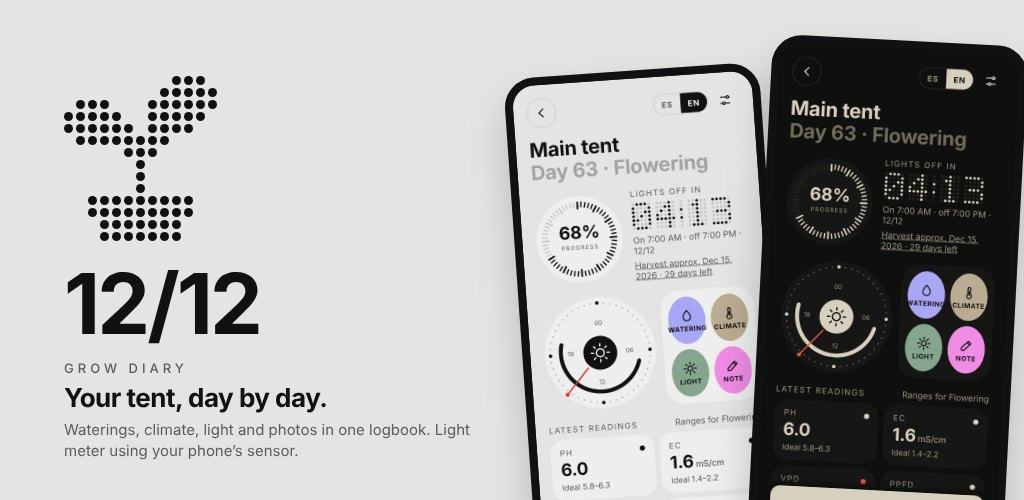
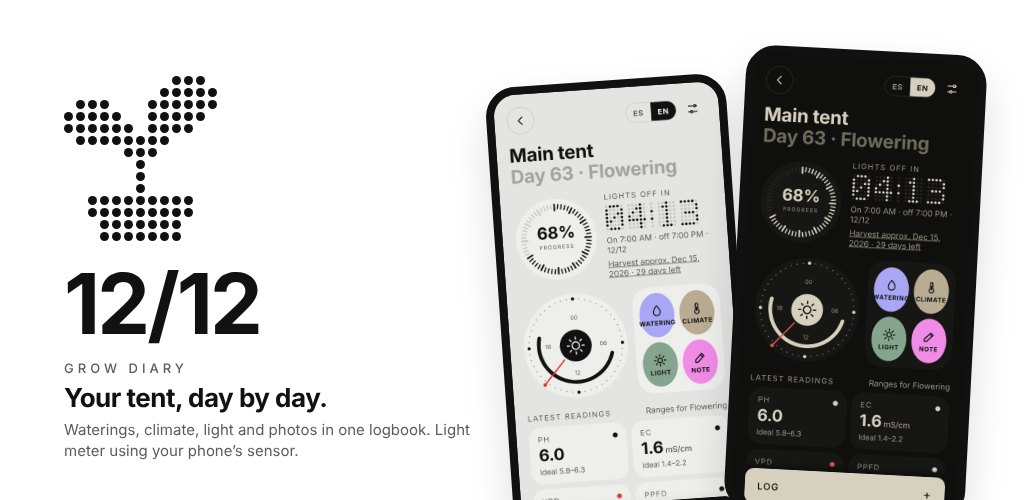
12/12: fondo blanco e imagen de tarjeta propia que no se corta en escritorio
Claude-Session: https://claude.ai/code/session_01AaQoaDKYzmFS6tCGin9G1v

diff --git a/assets/style.css b/assets/style.css
@@ -126,14 +126,14 @@ body.wd { --sea: #ECEBE7; --sea2: #DCDBD6; --fog: #2A2A28; --fog2: #5F5F5B; --cy
 .game-card.wd:hover .go { background: #DCDBD6; }
 .game-card.wd .pic { background-position: center; }
 
-/* ---------- 12/12: Diario de cultivo (gris claro, tinta negra y acento rojo, como la app) ---------- */
-body.dd { --sea: #E4E4E2; --sea2: #D9D9D6; --fog: #2A2A28; --fog2: #5C5C5A; --cyan: #E5322D; --cyan2: #111111; --rule: #CFCFCB; background: var(--sea); color: var(--fog); font-family: 'Inter', system-ui, -apple-system, sans-serif; }
+/* ---------- 12/12: Diario de cultivo (blanco, tinta negra y acento rojo, como la app) ---------- */
+body.dd { --sea: #FFFFFF; --sea2: #F2F2F0; --fog: #2A2A28; --fog2: #5C5C5A; --cyan: #E5322D; --cyan2: #111111; --rule: #CFCFCB; background: var(--sea); color: var(--fog); font-family: 'Inter', system-ui, -apple-system, sans-serif; }
 .dd h1, .dd .feat b, .dd .doc dt, .dd.game h1 { color: #111111; }
 .dd.game h1 { font-family: 'Inter', system-ui, sans-serif; font-weight: 700; letter-spacing: -3px; font-size: clamp(52px, 11vw, 84px); }
 .dd.game h1 em { color: var(--cyan); text-shadow: none; }
 .dd.game h2, .dd .tag, .dd .pill, .dd .mini, .dd .lang, .dd .shots figcaption { font-family: 'Inter', system-ui, sans-serif; font-weight: 500; }
 .dd .feat b { font-family: 'Inter', system-ui, sans-serif; font-weight: 700; letter-spacing: -0.2px; font-size: 17px; }
-.dd .feat div { background: #EEEEEC; border: 0; border-radius: 18px; padding: 18px; }
+.dd .feat div { background: #F2F2F0; border: 0; border-radius: 18px; padding: 18px; }
 .dd .hero { border-radius: 22px; background-color: var(--sea2); }
 .dd .shots img { border-radius: 18px; border-color: var(--rule); }
 .dd .pill { border-color: var(--rule); color: var(--fog2); }
@@ -149,11 +149,11 @@ body.dd { --sea: #E4E4E2; --sea2: #D9D9D6; --fog: #2A2A28; --fog2: #5C5C5A; --cy
 .dd .doc h1 { letter-spacing: -0.5px; }
 .dd .doc .mail { color: #111111; border-color: #111111; border-radius: 12px; }
 .dd footer a { color: #111111; }
-.game-card.dd { background: #E4E4E2; color: #2A2A28; border: 1px solid #D9D9D6; }
+.game-card.dd { background: #FFFFFF; color: #2A2A28; border: 1px solid #E4E4E2; }
 .game-card.dd .k { color: #5C5C5A; }
 .game-card.dd h2 { font-family: 'Inter', sans-serif; font-weight: 700; letter-spacing: -1px; color: #111111; }
 .game-card.dd h2 em { font-style: normal; color: #E5322D; }
 .game-card.dd p { color: #2A2A28; font-family: 'Inter', sans-serif; }
 .game-card.dd .go { border-color: #111111; color: #111111; font-family: 'Inter', sans-serif; font-weight: 500; border-radius: 12px; }
-.game-card.dd:hover .go { background: #D9D9D6; }
-.game-card.dd .pic { background-position: left center; }
+.game-card.dd:hover .go { background: #F2F2F0; }
+.game-card.dd .pic { background-position: center; }

diff --git a/index.html b/index.html
@@ -34,7 +34,7 @@
     <div class="txt"><span class="k">APP · DISPONIBLE EN ANDROID · IPHONE PRÓXIMAMENTE</span><h2>WIDGET <em>DESIGN</em></h2><p>Ocho estilos de widgets para tu pantalla de inicio. Cada uno es un kit de cuatro piezas que calzan entre sí: hora, clima, batería, agenda y más.</p><span class="go">VER MÁS ›</span></div>
   </a>
   <a class="game-card dd" href="doce12/">
-    <div class="pic" style="background-image:url('assets/dd-hero-es.jpg')" role="img" aria-label="12/12: Diario de cultivo"></div>
+    <div class="pic" style="background-image:url('assets/dd-card-es.jpg')" role="img" aria-label="12/12: Diario de cultivo"></div>
     <div class="txt"><span class="k">APP · PRÓXIMAMENTE · ANDROID Y IPHONE</span><h2>12<em>/</em>12</h2><p>Diario de cultivo para carpas indoor. Tu carpa a escala, una bitácora de riegos, clima, luz y fotos, el avance del ciclo hasta la cosecha y un medidor de luz con el sensor del teléfono.</p><span class="go">VER MÁS ›</span></div>
   </a>
     <div class="soon-card"><span class="k">EN CAMINO</span><p>Más juegos y apps en desarrollo. Pronto aquí.</p></div>

diff --git a/en/index.html b/en/index.html
@@ -34,7 +34,7 @@
     <div class="txt"><span class="k">APP · AVAILABLE ON ANDROID · IPHONE COMING SOON</span><h2>WIDGET <em>DESIGN</em></h2><p>Eight widget styles for your Home Screen. Each one is a kit of four pieces that fit together: time, weather, battery, calendar and more.</p><span class="go">LEARN MORE ›</span></div>
   </a>
   <a class="game-card dd" href="../doce12/en/">
-    <div class="pic" style="background-image:url('../assets/dd-hero-en.jpg')" role="img" aria-label="12/12: Diario de cultivo"></div>
+    <div class="pic" style="background-image:url('../assets/dd-card-en.jpg')" role="img" aria-label="12/12: Diario de cultivo"></div>
     <div class="txt"><span class="k">APP · COMING SOON · ANDROID AND IPHONE</span><h2>12<em>/</em>12</h2><p>A grow diary for indoor tents. Your tent to scale, a logbook of waterings, climate, light and photos, cycle progress up to harvest and a light meter using your phone’s sensor.</p><span class="go">LEARN MORE ›</span></div>
   </a>
     <div class="soon-card"><span class="k">ON THE WAY</span><p>More games and apps in development. Coming here soon.</p></div>

diff --git a/build.py b/build.py
@@ -131,7 +131,7 @@ CATALOG = [
          p={'es': 'Ocho estilos de widgets para tu pantalla de inicio. Cada uno es un kit de cuatro piezas que calzan entre sí: hora, clima, batería, agenda y más.',
             'en': 'Eight widget styles for your Home Screen. Each one is a kit of four pieces that fit together: time, weather, battery, calendar and more.'},
          ),
-    dict(slug='doce12', kind={'es': 'APP', 'en': 'APP'}, name='12<em>/</em>12', label='12/12: Diario de cultivo', pic='dd-hero', cls=' dd',
+    dict(slug='doce12', kind={'es': 'APP', 'en': 'APP'}, name='12<em>/</em>12', label='12/12: Diario de cultivo', pic='dd-card', cls=' dd',
          p={'es': 'Diario de cultivo para carpas indoor. Tu carpa a escala, una bitácora de riegos, clima, luz y fotos, el avance del ciclo hasta la cosecha y un medidor de luz con el sensor del teléfono.',
             'en': 'A grow diary for indoor tents. Your tent to scale, a logbook of waterings, climate, light and photos, cycle progress up to harvest and a light meter using your phone’s sensor.'},
          ),
